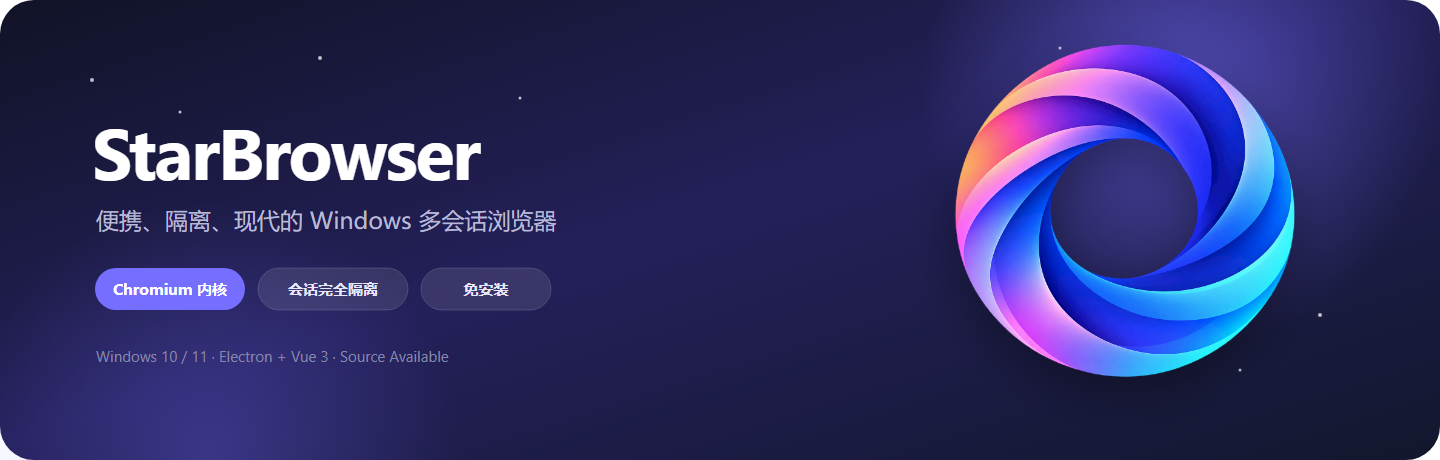
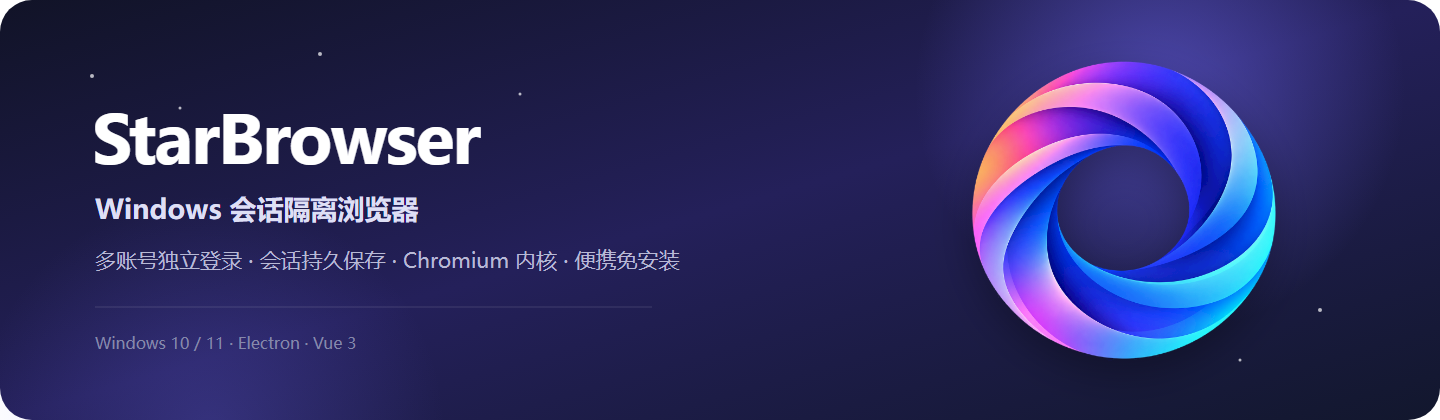
docs: clarify session-isolation browser positioning

diff --git a/README.md b/README.md
@@ -1,232 +1,147 @@
 <p align="center">
-  <img src="docs/banner.png" alt="StarBrowser — 便携、隔离、现代的 Windows 多会话浏览器" width="100%" />
+  <img src="docs/banner.png" alt="StarBrowser — Windows 会话隔离浏览器，多账号独立登录" width="100%" />
 </p>
 
 <p align="center">
-  <a href="https://github.com/aafqaq/StarBrowser/releases/latest"><img src="docs/badges/release.svg" alt="最新版本 v1.8.7" /></a>
-  <a href="https://github.com/aafqaq/StarBrowser/releases/latest"><img src="docs/badges/download.svg" alt="下载 Windows x64" /></a>
-  <a href="https://github.com/aafqaq/StarBrowser/actions/workflows/build.yml"><img src="docs/badges/build.svg" alt="Windows 构建通过" /></a>
-  <a href="https://github.com/aafqaq/StarBrowser/stargazers"><img src="https://img.shields.io/github/stars/aafqaq/StarBrowser?style=for-the-badge&color=ffb23f&label=Stars" alt="GitHub Stars" /></a>
-  <a href="LICENSE"><img src="docs/badges/license.svg" alt="PolyForm Noncommercial License" /></a>
+  <a href="https://github.com/aafqaq/StarBrowser/releases/latest"><img src="https://img.shields.io/github/v/release/aafqaq/StarBrowser?style=flat-square&label=Release&color=6d5dfc" alt="最新版本" /></a>
+  <a href="https://github.com/aafqaq/StarBrowser/releases/latest"><img src="https://img.shields.io/badge/Download-Windows_x64-3388ff?style=flat-square&logo=windows11&logoColor=white" alt="下载 Windows x64" /></a>
+  <a href="https://github.com/aafqaq/StarBrowser/actions/workflows/build.yml"><img src="https://img.shields.io/github/actions/workflow/status/aafqaq/StarBrowser/build.yml?branch=main&style=flat-square&label=Build" alt="Windows 构建状态" /></a>
+  <a href="https://github.com/aafqaq/StarBrowser/stargazers"><img src="https://img.shields.io/github/stars/aafqaq/StarBrowser?style=flat-square&label=Stars&color=f5a623" alt="GitHub Stars" /></a>
+  <a href="LICENSE"><img src="https://img.shields.io/badge/License-Noncommercial-8256e8?style=flat-square" alt="非商业许可" /></a>
 </p>
 
 <p align="center">
-  <b>在同一台电脑上同时登录多个网站账号，登录状态互不串号。</b><br />
-  每个会话都是独立的浏览器身份，同一会话内的标签页则自然共享 Cookie 与本地存储。
+  <b>StarBrowser 是一款面向 Windows 的会话隔离浏览器，也是一款便携式多账号浏览器。</b><br />
+  每个会话独立保存 Cookie、Local Storage、IndexedDB、缓存与登录状态；同一会话内的标签页正常共享网站数据。
 </p>
 
 <p align="center">
-  <a href="https://github.com/aafqaq/StarBrowser/releases/latest"><b>⬇ 下载最新版</b></a>
-  &nbsp;&nbsp;·&nbsp;&nbsp;
-  <a href="#三步开始使用">🚀 快速开始</a>
-  &nbsp;&nbsp;·&nbsp;&nbsp;
-  <a href="#数据放在哪里">🛡 数据安全</a>
-  &nbsp;&nbsp;·&nbsp;&nbsp;
-  <a href="#使用许可">📜 使用许可</a>
-  &nbsp;&nbsp;·&nbsp;&nbsp;
-  <a href="https://github.com/aafqaq/StarBrowser/issues">💬 问题反馈</a>
-</p>
-
----
-
-## ✨ 这就是 StarBrowser
-
-StarBrowser 面向需要同时管理多个网页登录身份的人：一个窗口左侧切换会话，右侧直接浏览网页。工作账号、个人账号、店铺账号和临时测试环境各自保存登录状态，不需要反复退出账号、开隐私窗口或准备多个浏览器。
-
-<p align="center">
-  <img src="docs/starbrowser-demo.gif" alt="StarBrowser 会话切换、收藏夹、备注与性能设置演示" width="960" />
+  <a href="https://github.com/aafqaq/StarBrowser/releases/latest"><b>下载最新版</b></a>
+  · <a href="#快速开始">快速开始</a>
+  · <a href="#数据与隐私">数据与隐私</a>
+  · <a href="https://github.com/aafqaq/StarBrowser/issues">问题反馈</a>
 </p>
 
 <p align="center">
-  <code>多账号运营</code>&nbsp;&nbsp; <code>社交媒体矩阵</code>&nbsp;&nbsp; <code>开发与测试</code>&nbsp;&nbsp; <code>临时登录环境</code>
+  <img src="docs/starbrowser-demo.gif" alt="StarBrowser 会话隔离、多账号切换与多标签浏览演示" width="960" />
 </p>
 
-## 🧩 核心能力
+## 为什么使用 StarBrowser
 
-| 核心体验 | StarBrowser 如何处理 |
+需要同时登录多个网站账号时，普通浏览器往往要反复退出账号、切换用户目录或打开隐私窗口。StarBrowser 把一个独立浏览器身份做成一张会话卡片：工作账号、个人账号、店铺账号、社交媒体账号和测试环境可以在一个窗口中快速切换，登录状态互不串号。
+
+| 会话之间 | 会话内部 |
 |---|---|
-| **独立浏览器身份** | 每个会话拥有独立的 Cookie、Local Storage、IndexedDB、缓存和登录凭证；账号之间不会串号。 |
-| **会话内自然共享** | 同一会话的多个标签页共享同一个 Chromium 存储分区，登录一次后同域网页可以正常共用状态。 |
-| **现代多标签浏览** | 标签页支持新建、切换、关闭和实时拖动排序，网站图标、加载状态与顺序都会保存。 |
-| **收藏与长期备注** | 收藏夹在所有会话间共享；每个会话还有可拖动的备注标签，适合记录大量文字。 |
-| **便携且可迁移** | 软件、Chromium 内核和 `data` 数据目录放在同一文件夹；会话还可加密导入导出。 |
-| **资源按设备调节** | 五档性能策略调整前后台帧率、后台节流和视觉效果；已打开页面不会被自动销毁或重排，避免输入与播放状态丢失。 |
-| **声明式插件系统** | 插件是受限 JSON 规则，由核心统一提供钩子、网络权限、定时任务、独立配置和会话徽标，不执行第三方脚本。 |
+| Cookie、站点存储、缓存与登录凭证相互隔离 | 多个标签页共享同一套站点数据，登录一次即可正常使用 |
+| 每个会话保留自己的标签页与备注 | 标签支持新建、切换、关闭和实时拖动排序 |
+| 可单独重建、回收、加密导入或导出 | 收藏夹由所有会话共享 |
 
-## 🖼 界面与使用方式
+## 核心功能
+
+- **会话隔离**：每个会话使用独立、持久化的 Chromium 存储分区。
+- **多账号同时登录**：适合店铺运营、社交媒体矩阵、开发测试和临时账号管理。
+- **完整多标签浏览**：网站图标、加载状态、标签顺序和打开页面均会保存。
+- **便携免安装**：程序、Chromium 内核和用户数据位于同一个文件夹。
+- **备注与收藏**：会话专属的大容量备注标签，以及全局共享收藏夹。
+- **数据迁移**：可加密导入、导出单个会话，不包含网页缓存和收藏夹。
+- **性能调节**：五档性能模式调整后台帧率、节流和视觉效果；已打开页面不会被自动销毁。
+- **受限插件系统**：插件使用声明式 JSON，由应用统一管理权限、配置、更新和网络访问。
+
+## 界面预览
 
 <p align="center">
-  <img src="docs/screenshots/01-isolated-sessions.png" alt="多个隔离会话与 GitHub Trending 浏览页面" width="100%" />
+  <img src="docs/screenshots/01-isolated-sessions.png" alt="StarBrowser 会话隔离浏览器主界面" width="100%" />
 </p>
-
-<p align="center"><b>一个窗口管理多个隔离身份：左侧选择会话，右侧使用完整 Chromium 网页。</b></p>
 
 <table>
   <tr>
-    <td width="50%"><img src="docs/screenshots/02-session-switch.png" alt="切换到另一个独立会话" /></td>
+    <td width="50%"><img src="docs/screenshots/02-session-switch.png" alt="快速切换独立浏览器会话" /></td>
     <td width="50%"><img src="docs/screenshots/03-favorites.png" alt="所有会话共享的收藏夹" /></td>
   </tr>
   <tr>
-    <td align="center"><b>切换会话就是切换完整浏览器身份</b></td>
-    <td align="center"><b>全局收藏夹快速打开常用网页</b></td>
+    <td align="center"><b>切换会话，切换完整浏览器身份</b></td>
+    <td align="center"><b>所有会话共享收藏</b></td>
   </tr>
   <tr>
-    <td width="50%"><img src="docs/screenshots/04-memo.png" alt="会话专属的大容量备注标签" /></td>
-    <td width="50%"><img src="docs/screenshots/05-session-settings.png" alt="会话自动回收设置" /></td>
+    <td width="50%"><img src="docs/screenshots/04-memo.png" alt="会话专属备注标签" /></td>
+    <td width="50%"><img src="docs/screenshots/05-session-settings.png" alt="会话名称和自动回收设置" /></td>
   </tr>
   <tr>
-    <td align="center"><b>备注与网页标签一起保存和排序</b></td>
-    <td align="center"><b>按规则管理会话生命周期</b></td>
+    <td align="center"><b>在独立标签中记录大量备注</b></td>
+    <td align="center"><b>管理会话信息与生命周期</b></td>
   </tr>
 </table>
 
-<p align="center">
-  <img src="docs/screenshots/06-performance.png" alt="适配不同硬件的五档性能设置" width="820" />
-</p>
+## 快速开始
 
-<p align="center"><b>从超低配到超高配，按设备决定后台页面保留范围。</b></p>
+1. 从 [Releases](https://github.com/aafqaq/StarBrowser/releases/latest) 下载 `StarBrowser-Windows-x64-v*.zip`。
+2. 将 ZIP **完整解压**到普通文件夹，不要只取出 EXE。
+3. 双击 `StarBrowser.exe`，新建会话并登录网站。
 
-<p align="center">
-  <img src="docs/screenshots/07-plugins.png" alt="StarBrowser 声明式插件中心" width="820" />
-</p>
-
-<p align="center"><b>默认保持纯净，需要时再从仓库安装受限的声明式插件。</b></p>
-
-## 🚀 三步开始使用
-
-1. 前往 [Releases](https://github.com/aafqaq/StarBrowser/releases/latest) 下载 `StarBrowser-Windows-x64-v*.zip`。
-2. 把 ZIP **完整解压到一个普通文件夹**，不要只单独拖出 EXE。
-3. 双击 `StarBrowser.exe`，新建会话后即可登录不同账号。
-
-软件无需安装。Chromium 运行文件、主程序和用户数据都会位于同一个文件夹中，适合放在桌面、移动硬盘或其他自选位置。
+支持 Windows 10 / 11 x64，无需安装，也不依赖电脑预装的浏览器内核。
 
 > [!IMPORTANT]
-> 请勿直接在 ZIP 压缩包内运行，也不要把 `StarBrowser.exe` 单独移动到别处；它需要同级的 `resources`、`locales` 等运行文件。
+> 请勿直接在压缩包内运行。移动软件时应先完全退出，再复制整个 StarBrowser 文件夹。
 
-## 📜 使用许可
+## 数据与隐私
 
-StarBrowser 的原创代码、界面、文档和原创项目资源采用 [PolyForm Noncommercial 1.0.0](LICENSE) 源码公开许可：
-
-- ✅ 个人学习、研究、娱乐及其他非商业用途可以免费使用。
-- ✅ 非商业修改和再分发可以进行，但必须保留许可文本和作者声明。
-- 🔐 用于商业产品、收费服务、转售、变现分发或企业商业运营前，必须先取得作者书面授权。
-- 📮 商业授权可通过 GitHub 账号 [@aafqaq](https://github.com/aafqaq) 或本仓库 Issues 联系。
-
-Electron、Chromium、Vue、Naive UI 等第三方组件不适用上述商业限制，仍各自遵循原许可证；详见 [第三方许可声明](THIRD_PARTY_NOTICES.md)。这是非商业源码公开许可，不属于 OSI 定义的开源许可证。
-
-## 🛡 数据放在哪里
-
-首次运行后，程序同级会出现：
+所有本地数据都保存在程序同级的 `data` 目录：
 
 ```text
 StarBrowser/
 ├─ StarBrowser.exe
-├─ resources/          软件运行文件
+├─ resources/          程序运行文件
 ├─ locales/            Chromium 语言文件
-└─ data/               你的全部本地数据
+└─ data/
    ├─ state.json       会话、标签、备注、收藏和设置
    ├─ state.backup.json
-   ├─ plugins/         已安装插件、独立配置和用量缓存
+   ├─ plugins/         插件配置与缓存
    └─ electron/        Cookie、Local Storage、IndexedDB、缓存等
 ```
 
-- ✅ 移动软件：先完全退出，然后复制**整个文件夹**。
-- ✅ 备份数据：退出软件后备份整个 `data` 文件夹。
-- ✅ 清空一切：退出软件后移走或删除 `data`；此操作不可恢复。
-- ❌ 不要在软件运行时用同步盘同时修改 `data`。
-- ❌ 不要把包含真实登录状态的 `data` 上传到网盘或公开仓库。
+- 备份时：完全退出软件，然后复制整个 `data` 文件夹。
+- 迁移时：复制完整的 StarBrowser 文件夹，或使用会话导入导出。
+- StarBrowser 不提供云同步，不会将会话、Cookie、备注、收藏或浏览记录上传到项目服务器。
+- `data` 可能包含有效登录凭证，请勿上传到公开仓库或交给他人。
 
-StarBrowser 不提供云同步，也不会把会话、Cookie、备注、收藏或浏览记录上传到项目服务器。用户主动安装的插件只会按权限说明访问其声明的网站接口；网页本身的数据处理仍受对应网站的隐私规则约束。
+## 更新与兼容
 
-## 🧩 插件中心
+StarBrowser 启动后会异步检查 GitHub Releases，也可在 **设置 → 检查更新** 中手动检查。更新包下载并通过 SHA-256 校验后，应用只替换程序清单内的文件，明确排除 `data`；更新失败时保留当前版本和数据。
 
-新安装的 StarBrowser 默认不安装任何插件。左下角进入 **插件** 后，可以查看仓库插件、已安装插件及各插件自己的设置：
+状态结构、浏览器存储、会话包格式和加密算法都具有独立版本号，为后续数据迁移保留兼容空间。
 
-- 在线插件只能从本仓库目录下载，安装和更新都会验证 SHA-256、插件 ID 与版本。
-- 也可手动导入符合 StarBrowser 声明式规范的 JSON 文件。
-- 插件不能运行 JavaScript；网络请求、会话匹配、定时、设置表单和卡片徽标均由插件引擎执行。
-- 卸载默认保留该插件的独立配置，也可以勾选同时删除配置。
-- 插件更新采用原子替换；更新失败时继续使用原版本，配置不会被覆盖。
+## 使用许可
 
-首个仓库插件是 **ChatGPT 用量展示**：它识别包含 `chatgpt.com` 标签的会话，不打开额外 WebView，直接使用对应隔离会话的登录凭证依次尝试读取非免费账号用量。成功后在会话卡片显示剩余比例和重置时间；未登录、账号异常或接口变化会显示带原因的叹号，免费账号不会显示徽标。ChatGPT 没有公开稳定的订阅剩余额度 API，因此该插件可能随网页接口变化而需要更新。
+StarBrowser 的原创代码、界面、文档和原创资源采用 [PolyForm Noncommercial 1.0.0](LICENSE)：
 
-## 🔄 自动更新如何保护数据
+- 个人学习、研究、娱乐及其他非商业用途可免费使用、修改和分发。
+- 商业产品、收费服务、转售、变现分发或企业商业运营须事先取得作者书面授权。
+- Electron、Chromium、Vue、Naive UI 等第三方组件仍遵循各自许可证，详见 [第三方许可声明](THIRD_PARTY_NOTICES.md)。
 
-每次启动后，StarBrowser 会延迟几秒异步访问本项目的 GitHub Releases。没有新版本时不会打扰使用；也可以在 **设置 → 检查更新** 中手动检查，并从设置直接打开 GitHub 给项目点 Star。
+商业授权请通过 [@aafqaq](https://github.com/aafqaq) 或 [Issues](https://github.com/aafqaq/StarBrowser/issues) 联系。
 
-发现新版后：
-
-1. 显示更新说明，可选择稍后处理或忽略这个版本。
-2. 在后台下载 ZIP，并实时显示百分比、已下载大小和速度。
-3. 完成 SHA-256 校验与受限解压后，才出现“重启并更新”。
-4. 重启时只替换程序清单内的软件文件，永远排除 `data` 和无法识别的用户文件。
-5. 新版启动通过健康检查后，自动删除下载包、解压目录和回滚副本。
-6. 如果替换失败或新版无法正常启动，自动恢复旧程序与更新前配置。
-
-兼容清单分别记录应用状态结构、Chromium 存储结构、会话包格式和加密算法版本。未来即使这些规则升级，也可以在新版本启动阶段执行迁移，而不是简单拒绝更新或覆盖旧配置。
-
-## 📦 会话导入导出
-
-会话菜单支持导出当前隔离会话，导入后会创建一个新会话：
-
-- 包含：会话名称、备注、标签页、Cookie、Local/Session Storage、IndexedDB 等登录凭证类数据。
-- 不包含：收藏夹、HTTP 缓存、网页快照和无关临时文件。
-- 当前格式：会话包格式 `v1`，加密算法 `v1`，使用 scrypt + AES-256-GCM。
-- 密码无法找回；请使用足够强的密码，并通过安全渠道传递会话包。
-
-## ⚡ 性能档位怎么选
-
-| 档位 | 适合设备 | 页面保留倾向 |
-|---|---|---|
-| 超低配 | 4 GB 左右内存、较老 CPU | 最积极释放后台页面，优先保证当前页面流畅 |
-| 低配 | 8 GB 左右内存 | 少量常用会话与标签常驻 |
-| 均衡 | 普通办公电脑 | 在内存占用和切换速度之间平衡 |
-| 高配 | 16–32 GB 内存 | 保留更多会话与标签，切换更快 |
-| 超高配 | 32 GB 以上或高性能工作站 | 最大化常驻数量和视觉体验 |
-
-首次启动会按硬件自动选择一个档位并固定保存。软件发现持续内存压力时只会提示推荐档位，不会擅自更改你的选择。
-
-## ❓ 常见问题
+## 常见问题
 
 <details>
-<summary><b>不同会话真的不会串登录吗？</b></summary>
+<summary><b>不同会话真的不会串登录状态吗？</b></summary>
 
-每个会话使用不同的持久化 Chromium partition。不同会话的 Cookie、本地存储和缓存目录互相隔离；同一会话中的所有标签页共享同一个 partition。
+每个会话使用不同的持久化 Chromium partition，因此 Cookie、本地存储、IndexedDB 和缓存目录彼此隔离；同一会话的标签页则共享一个 partition。
 </details>
 
 <details>
-<summary><b>后台页面为什么偶尔会重新加载？</b></summary>
+<summary><b>为什么 Windows 提示“未知发布者”？</b></summary>
 
-当实际保留数量超过当前性能档位预算时，StarBrowser 会释放较久未使用的网页进程。标签、网址、Cookie 和站点存储不会被删除，重新切换时页面会恢复加载。可在设置中提高性能档位。
+项目暂未使用商业代码签名证书，Windows SmartScreen 可能显示提醒。请只从本仓库 Releases 下载，并核对发布清单中的 SHA-256。
 </details>
 
 <details>
-<summary><b>Windows 提示“未知发布者”怎么办？</b></summary>
+<summary><b>支持 macOS 或 Linux 吗？</b></summary>
 
-源码公开项目暂未提供商业代码签名证书时，Windows SmartScreen 可能显示提醒。请只从本仓库 Releases 下载，并核对 Release 提供的 SHA-256 更新清单。不要使用来源不明的二次打包版本。
+目前只维护 Windows 10 / 11 x64。
 </details>
-
-<details>
-<summary><b>软件支持 macOS 或 Linux 吗？</b></summary>
-
-目前只维护 Windows 10/11 x64，其他平台不在支持范围内。
-</details>
-
-## 💜 喜欢的话
-
-如果 StarBrowser 让多账号管理轻松了一点，欢迎：
-
-- ⭐ 点击右上角 **Star**，让更多人看到项目
-- 🐛 在 [Issues](https://github.com/aafqaq/StarBrowser/issues) 报告可复现的问题
-- 💡 分享你希望加入的使用场景
-- 🔗 把项目推荐给同样需要多会话隔离的朋友
-
-<p align="center">
-  <a href="https://github.com/aafqaq/StarBrowser/stargazers"><img src="https://img.shields.io/github/stars/aafqaq/StarBrowser?style=social" alt="Star this repository" /></a>
-</p>
 
 ---
 
 <p align="center">
-  <sub>基于 Electron、Chromium、Vue 3 与 Naive UI · PolyForm Noncommercial 1.0.0</sub>
+  如果 StarBrowser 对你有帮助，欢迎点一个 <a href="https://github.com/aafqaq/StarBrowser/stargazers"><b>Star</b></a>，让更多需要会话隔离浏览器的人找到它。
 </p>
